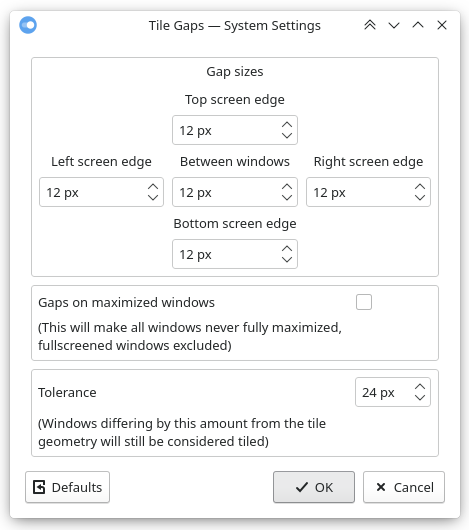
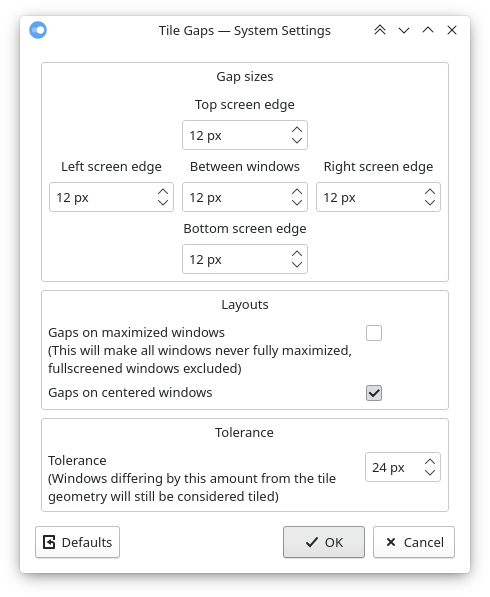
add option to enable/disable gaps on centered windows; improve config layout

Changed region(s): [[0.0, 0.0, 1.0, 0.9962]]

diff --git a/README.md b/README.md
@@ -8,7 +8,7 @@ Please note that this script has the purpose of reshaping windows that have been
 
 ![screenshot](img/screenshot.png)
 
-![config](img/config.png)
+![config](img/config_.png)
 
 [view in KDE Store](https://www.pling.com/p/1619642/)
 
